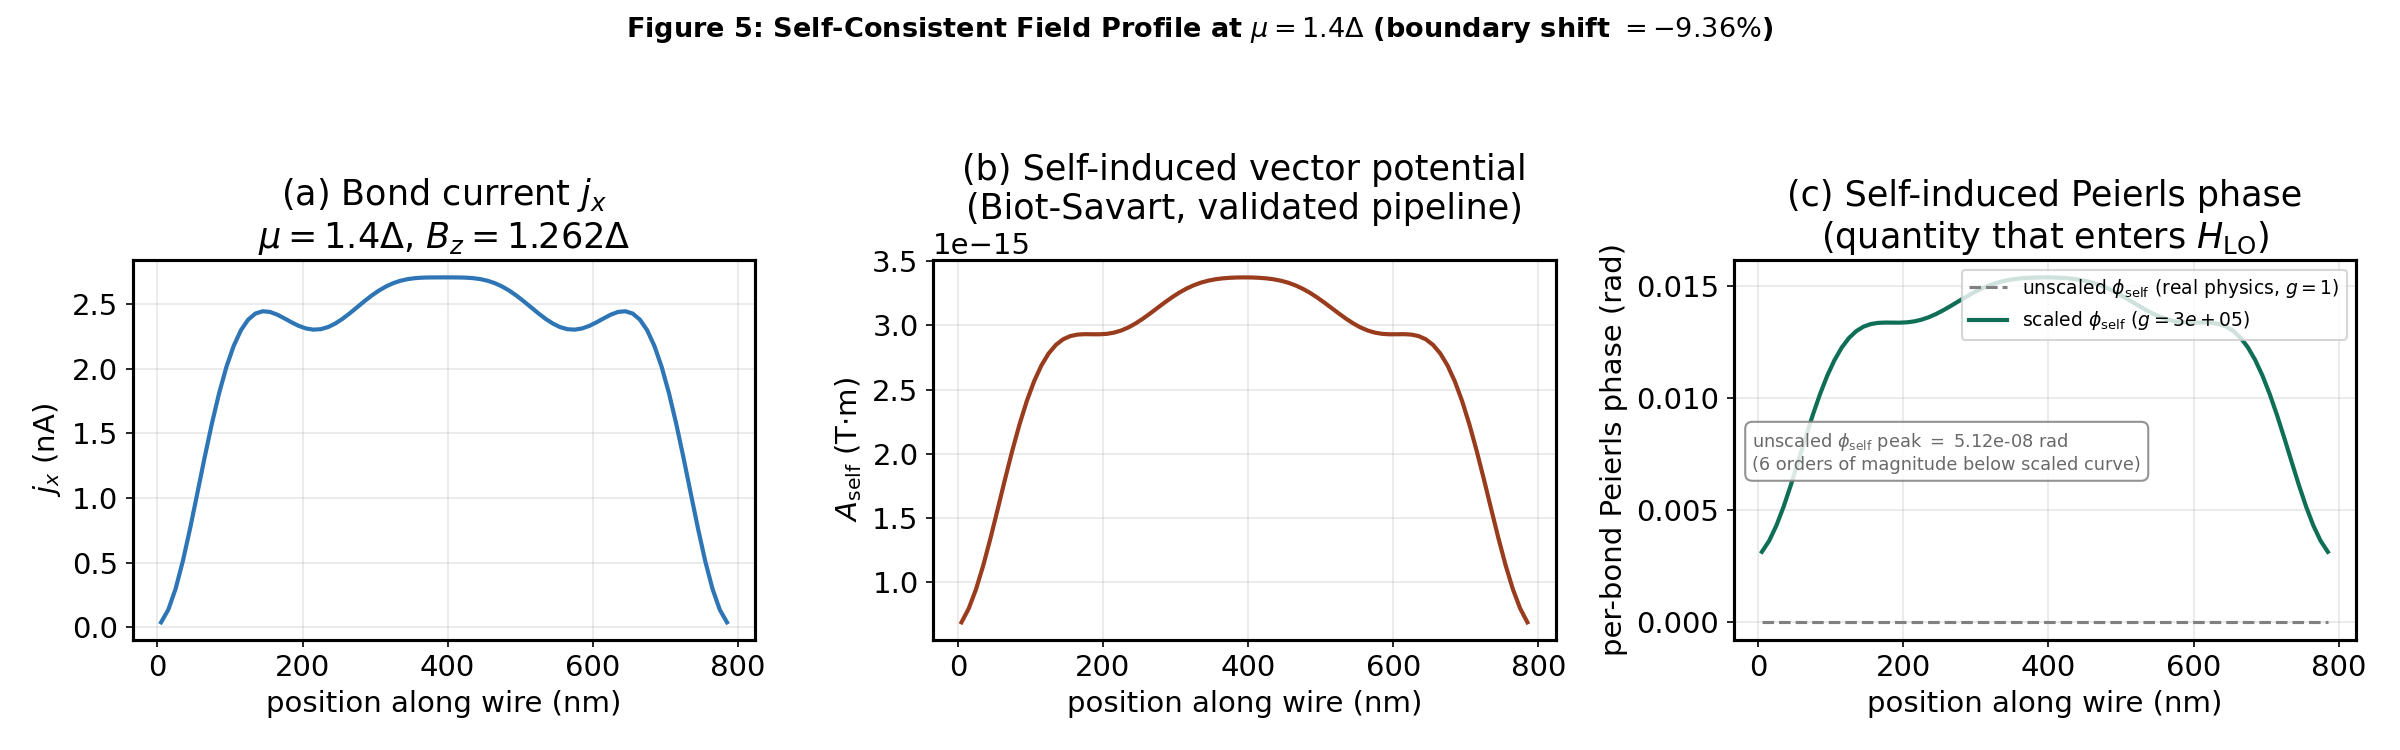
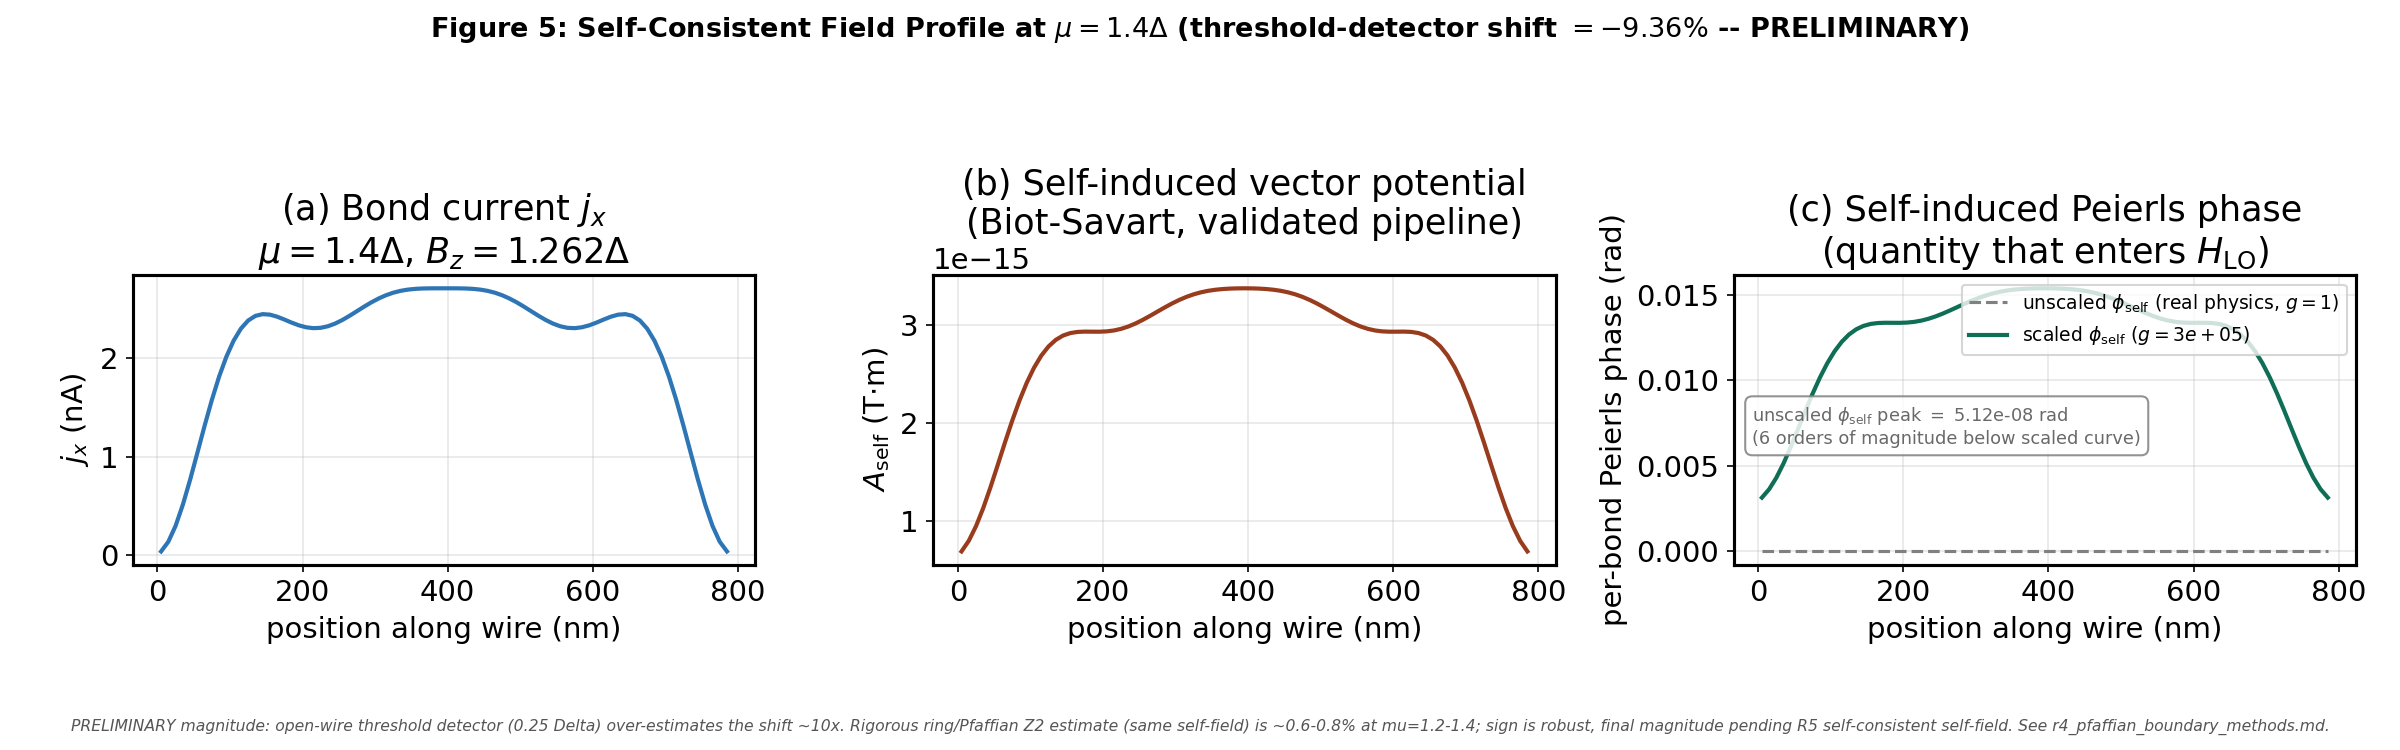
R4: label Figure 4/5 boundary-shift magnitude as PRELIMINARY; document g0 mechanism, baseline offset, and R5 scope
Controlled comparisons (ring-vs-open-wire geometry, threshold-vs-Pfaffian
method) showed the Figure 4/5 headline shift is largely a threshold-
detector artifact: keeping the exact same self-field and only swapping
openwire_boundary_Bc for the rigorous ring_boundary_Bc_pfaffian gives
~0.6-0.8% at mu=1.2-1.4, not the reported ~6-9%. Direction (topological
region grows under inductive feedback) survives; magnitude does not.

Per decision: don't sit on the inflated number silently while R5 is
pending. Adds a single-source-of-truth _SHIFT_CAVEAT string, stamped as
a footer + suptitle relabel on both Figure 4 and Figure 5 ("PRELIMINARY
-- threshold detector", with the rigorous ~0.6-0.8% estimate quoted
inline), plus matching notes in the figure4/5 docstrings, the methods
note (new sections 4b/4c), and README's status table. Figures
regenerated; caveat-footer layout tuned (explicit tight_layout bottom
margin) so the footer text doesn't overlap the x-axis label.

R5's deliverable is made explicit (README + methods note): not just a
self-consistent-self-field shift number, but that number subjected to
the same validation the Pfaffian detector itself passed --
N-independence, tolerance/grid robustness, a gauge/known-answer check,
and seed-independence of the fixed point.

Also removes a stale duplicate ("ISEF R4 data folder/
r4_figure4_inductive_feedback_shift_revised.png", pre-routing-commit
leftover) now that figure4_phase_shift_preview() writes its actual
[…]

diff --git a/src/bdg_r4_em_coupling.py b/src/bdg_r4_em_coupling.py
@@ -96,6 +96,24 @@ def _out(name: str) -> str:
     return os.path.join(_OUTPUT_DIR, os.path.basename(str(name)))
 
 
+# ── Detector caveat, stamped on every figure that reports a boundary SHIFT.
+# Single source of truth so the "preliminary" label cannot drift out of sync
+# with the number. The shifts in figure4/figure5 come from the OPEN-WIRE
+# spectral-threshold detector (openwire_boundary_Bc, 0.25*Delta), which
+# over-estimates the shift by ~10x: swapping in the rigorous ring/Pfaffian
+# Z2 invariant (ring_boundary_Bc_pfaffian, threshold-free, N-independent),
+# with the *same* self-field, gives ~0.6-0.8% at mu=1.2-1.4 instead of
+# ~6-9%. Only the SIGN/direction (topological region grows) is trustworthy
+# so far; the final magnitude awaits R5's self-consistent ring self-field.
+_SHIFT_CAVEAT = (
+    "PRELIMINARY magnitude: open-wire threshold detector (0.25 Delta) "
+    "over-estimates the shift ~10x. Rigorous ring/Pfaffian Z2 estimate "
+    "(same self-field) is ~0.6-0.8% at mu=1.2-1.4; sign is robust, final "
+    "magnitude pending R5 self-consistent self-field. "
+    "See r4_pfaffian_boundary_methods.md."
+)
+
+
 # ════════════════════════════════════════════════════════════════════
 # PHYSICAL CONSTANTS (SI) — used only at the Biot-Savart / circuit layer
 # ════════════════════════════════════════════════════════════════════
@@ -1180,6 +1198,14 @@ def figure4_phase_shift_preview(fname: str = "r4_figure4_phase_shift_preview.png
     diagram with two numerically traced open-wire boundaries -- the
     gauge-invariant baseline (external flux only) and the inductive
     self-field boundary -- showing the inductive shift.
+
+    PRELIMINARY MAGNITUDE. The traced boundaries use the open-wire spectral
+    threshold detector (openwire_boundary_Bc), which over-estimates the
+    shift ~10x relative to the rigorous ring/Pfaffian Z2 detector
+    (ring_boundary_Bc_pfaffian): with the same self-field the rigorous shift
+    is ~0.6-0.8% at mu=1.2-1.4, not ~6-9%. Only the SIGN is trustworthy so
+    far. The figure is stamped with _SHIFT_CAVEAT; final magnitude is an R5
+    deliverable. See r4_pfaffian_boundary_methods.md sections 4b/4c.
     """
     import matplotlib
     matplotlib.use("Agg")
@@ -1260,12 +1286,19 @@ def figure4_phase_shift_preview(fname: str = "r4_figure4_phase_shift_preview.png
     ax2.plot(mu_b, Bc_base, "wo-", lw=2, ms=6,
              label=r"baseline ($\Phi_{\rm ext}$ only)")
     ax2.plot(mu_b, Bc_ind, "y^--", lw=2, ms=7, label="+ inductive self-field")
-    ax2.set_title("inductive feedback shifts boundary ($g=%.0e$)" % g0)
+    ax2.set_title("inductive feedback shifts boundary ($g=%.0e$)\n"
+                  "[threshold detector -- magnitude preliminary]" % g0,
+                  fontsize=11)
     ax2.legend(loc="upper right", fontsize=11)
 
     fig.suptitle("R4 Figure 4: Topological Phase Boundary Shift Under "
-                 "Inductive Feedback (preview)", fontsize=14, fontweight="bold")
-    fig.tight_layout(rect=(0, 0, 1, 0.95))
+                 "Inductive Feedback (PRELIMINARY -- threshold detector)",
+                 fontsize=14, fontweight="bold")
+    # rect leaves an explicit bottom margin (0.10) for the caveat footer below,
+    # separate from the top margin (0.90) reserved for the suptitle.
+    fig.tight_layout(rect=(0, 0.10, 1, 0.90))
+    fig.text(0.5, 0.02, _SHIFT_CAVEAT, ha="center", va="bottom",
+             fontsize=7.5, style="italic", color="#555555", wrap=True)
     fig.savefig(_out(fname), dpi=150)
     plt.close(fig)
 
@@ -1394,13 +1427,15 @@ def figure5_flux_density_profile(N: int = 80,
     ax.grid(True, alpha=0.3)
 
     shift_label = (f"{shift_pct_here:+.2f}\\%" if shift_pct_here is not None
-                   else "shift not recomputed (explicit B_at_shift passed)")
+                   else "n/a (explicit B_at_shift passed)")
     fig.suptitle(
         fr'Figure 5: Self-Consistent Field Profile at $\mu={mu_fixed}\Delta$ '
-        fr'(boundary shift $={shift_label}$)',
+        fr'(threshold-detector shift $={shift_label}$ -- PRELIMINARY)',
         fontsize=13, fontweight='bold'
     )
-    fig.tight_layout(rect=(0, 0, 1, 0.92))
+    fig.tight_layout(rect=(0, 0.10, 1, 0.90))
+    fig.text(0.5, 0.02, _SHIFT_CAVEAT, ha="center", va="bottom",
+             fontsize=7.5, style="italic", color="#555555", wrap=True)
     fig.savefig(_out(fname), dpi=150)
     plt.close(fig)
 

diff --git a/src/r4_pfaffian_boundary_methods.md b/src/r4_pfaffian_boundary_methods.md
@@ -135,6 +135,50 @@ k=0 band inversion, which is far more robust to finite-size effects than the
 continuous spectral gap the old detector measured — and k=0 is an allowed
 momentum even for a 20-site ring.
 
+## 4b. Consequence for the headline: the reported boundary SHIFT is ~10× inflated
+
+The point of a threshold-free detector is not just cleaner absolute B_c — it
+changes the project's headline number. Two controlled comparisons (N=80):
+
+**Absolute B_c, isolating detector method (both on the clean ring):** the
+threshold detector (0.25·Δ) lands **exactly −0.25000 below** the Pfaffian/analytic
+B_c at μ = 1.2, 1.3, 1.4 — i.e. off by exactly `threshold`, because the bulk gap
+closes linearly (E ≈ |B − B_c|) so a fixed threshold fires exactly `threshold`
+early. On the open wire the offset grows to −0.29…−0.33 (adds the end/finite-size
+contribution). So absolute B_c from the reported detector is ~15–19 % low.
+
+**The relative SHIFT (the actual headline), keeping figure4's *exact* self-field
+and only swapping the detector:**
+
+| μ | threshold-detector shift (Figure 4/5) | ring/Pfaffian shift (same self-field) |
+|---|---|---|
+| 1.2 | −5.86 % | **−0.77 %** |
+| 1.4 | −9.36 % | **−0.60 %** |
+
+The headline shift is **largely a threshold-detector artifact**: the tiny
+self-field (~0.015 rad peak) barely moves the true k=0 band inversion, but it
+noticeably moves the near-zero *sub-gap* states that the absolute threshold keys
+on. The **sign/direction survives** (topological region grows under inductive
+feedback); the **magnitude is ~an order of magnitude smaller** than reported, and
+even the μ-ranking changes (μ=1.4 is the threshold method's "largest" shift but
+not the Pfaffian method's). Figure 4/5 are therefore labelled PRELIMINARY
+(threshold detector) until R5.
+
+Caveat on the 0.6–0.8 %: that number itself is not yet final — the self-field
+texture is open-wire-derived but applied to the ring with the wrap bond carrying
+only the gauge phase (a modelling choice). The *order-of-magnitude* conclusion
+(rigorous shift ≪ threshold shift) is robust to that choice; the exact sub-percent
+value is an R5 deliverable.
+
+## 4c. R5 deliverable (explicit)
+
+R5 must produce a **validated** final magnitude, not a second unvalidated number:
+make the ring self-field self-consistent (remove the open-wire seed and the
+wrap-bond placeholder), extract the shift with `ring_boundary_Bc_pfaffian`, and
+subject that shift to the same checks this detector passed — (a) N-independence
+(N ≈ 20–160), (b) tolerance/grid robustness, (c) a gauge/known-answer check
+(uniform flux → 0 shift), and (d) seed-independence of the fixed point.
+
 ## 5. Limitations (every method has some)
 
 - **It measures the bulk/ring invariant, not literal open-end Majorana

diff --git a/README.md b/README.md
@@ -17,9 +17,24 @@ quantum computing:
 ## Current Status
 - ✅ R1: Baseline BdG eigensolver (validated vs Kitaev 2001)
 - ✅ R2: Pfaffian topological indicator (finite-size scaling confirmed)
-- ✅ R3: PH-symmetric rank-2 update (August 2026)
-- 🔄 R4: Biot-Savart EM coupling layer
-- ⬜ R5: Self-consistent fixed-point iteration
+- ✅ R3: PH-symmetric rank-2 update
+- 🔄 R4: Biot-Savart EM coupling layer — pipeline validated (6/6 checks).
+  **Headline boundary-shift magnitude is PRELIMINARY:** it comes from an
+  open-wire spectral-threshold detector that over-estimates the shift ~10×.
+  A rigorous, threshold-free, N-independent ring/Pfaffian Z₂ detector has
+  been added (`ring_boundary_Bc_pfaffian`); with the *same* self-field it
+  gives ~0.6–0.8 % at μ = 1.2–1.4 (vs ~6–9 % from the threshold detector).
+  Only the **sign** (topological region grows under inductive feedback) is
+  trustworthy so far. See `src/r4_pfaffian_boundary_methods.md`.
+- ⬜ R5: Self-consistent fixed-point iteration — **explicit deliverable
+  (not just a number):** make the ring self-field self-consistent (replace
+  the one-shot open-wire-seeded texture and the placeholder wrap-bond
+  choice), extract the boundary shift with the ring/Pfaffian detector, and
+  subject that shift to the *same* validation the detector itself passed —
+  (a) N-independence across N ≈ 20–160, (b) robustness to bisection/grid
+  tolerance, (c) a known-answer / gauge check (uniform flux → 0 shift), and
+  (d) seed-independence of the fixed point. The goal is a *validated* final
+  magnitude, not a second unvalidated one.
 - ⬜ R6: Phase diagram under EM feedback
 
 ## Requirements
@@ -28,10 +43,16 @@ pip install numpy scipy matplotlib pandas pfapack psutil
 
 ## Running
 
-python src/bdg_eigensolver_r1_r2.py
+    python src/bdg_eigensolver_r1_r2_LOAdapted.py   # R1+R2
+    python src/bdg_eigensolver_r3_lo_adapted.py     # R3
+    python src/bdg_r4_em_coupling.py                # R4
+
+Each program writes its figures and data outputs directly into its own
+data folder (`R1_R2_data_files/`, `R3_data_files/`, `ISEF R4 data folder/`).
 
 ## Results
-See `/figures` for all generated plots and `/data` for CSV outputs.
+See the per-program data folders above for all generated plots and
+CSV/NPY outputs.
 
 ## Science Fair
 Denver Metro Regional Science and Engineering Fair (DMRSEF)  
